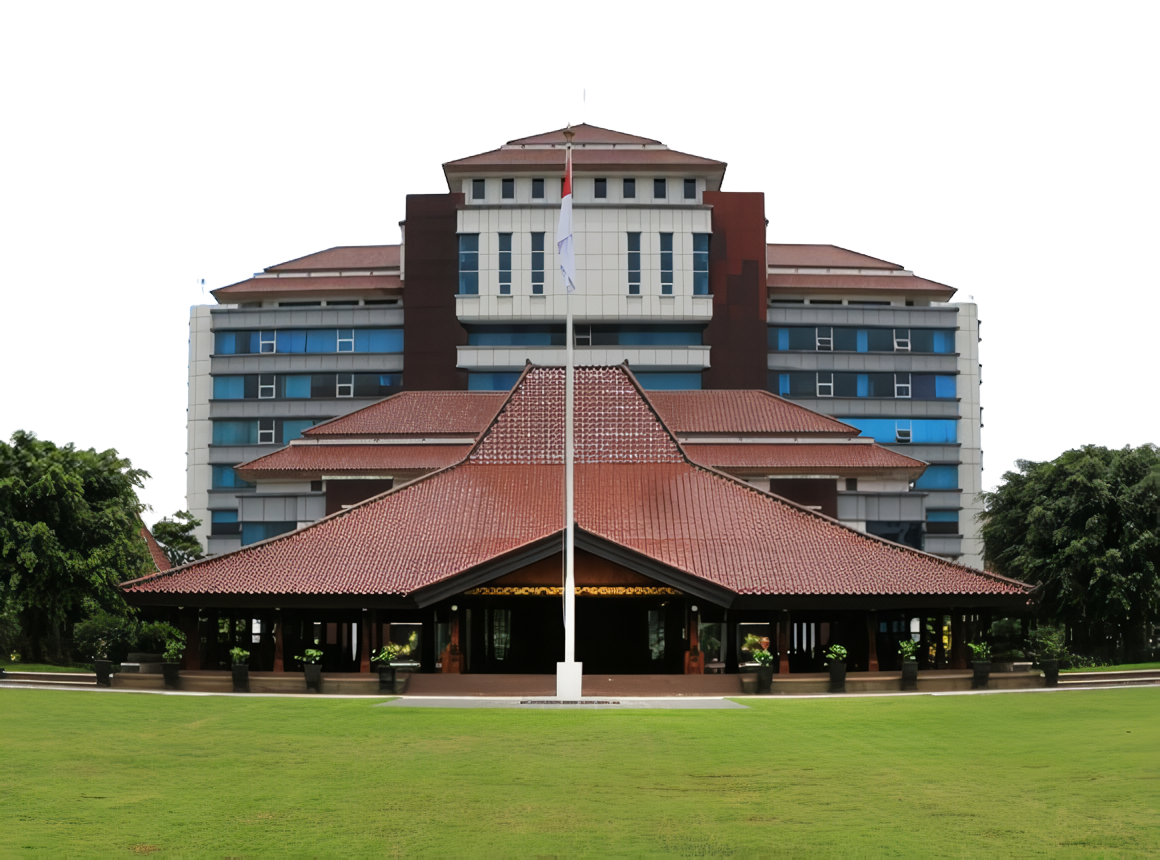
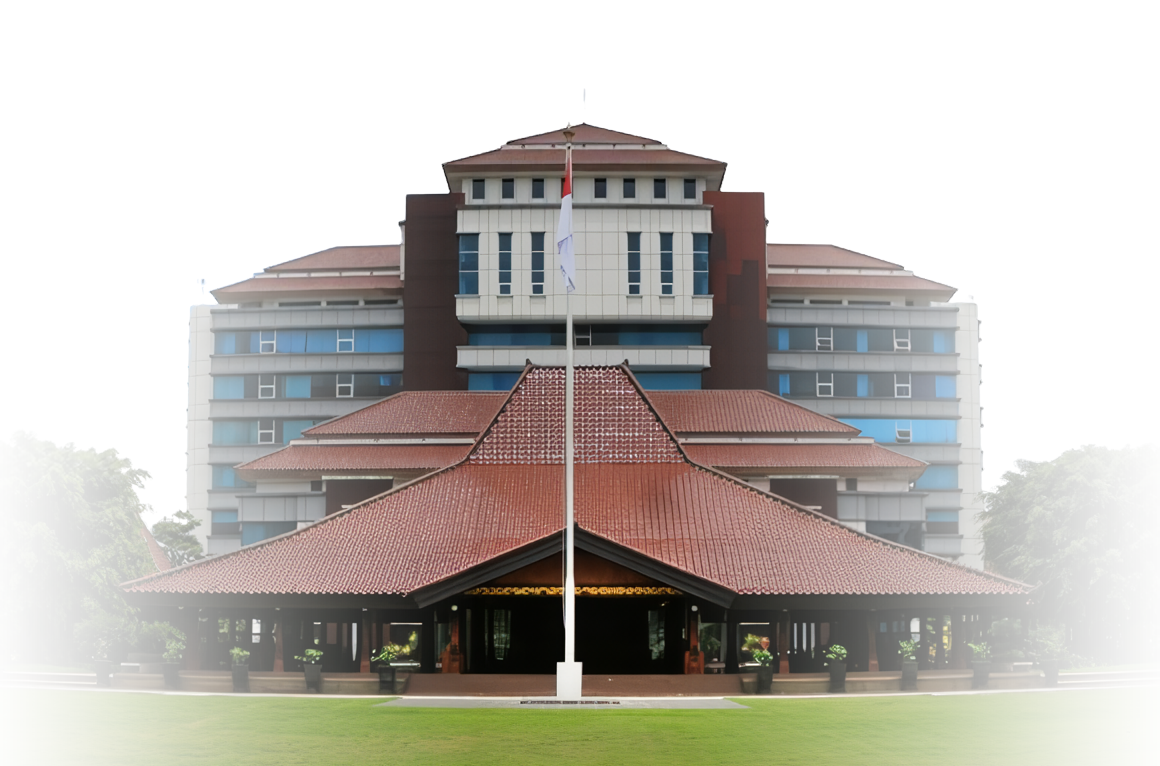
modified:   src/Page/Admin.jsx 	modified:   src/Page/Login.jsx 	modified:   src/assets/kankabmal.png 	modified:   src/components/Berita.jsx 	modified:   src/components/Domain.jsx 	modified:   src/components/Home.jsx 	modified:   src/components/Navbar.jsx 	modified:   src/components/TabelBerita.jsx 	

diff --git a/src/components/TabelDomain.jsx b/src/components/TabelDomain.jsx
@@ -54,6 +54,9 @@ const TabelDomain = (prop) => {
         }
       });
   };
+  const deleteHandler =(ID)=>{
+    axios.delete(`${urlAPI}${prop.keterangan}/delete/${ID}`.toLocaleLowerCase())
+  }
 
   const handleSubmitCreate = (e) => {
     e.preventDefault();
@@ -138,7 +141,7 @@ const TabelDomain = (prop) => {
                   </button>
 
                   {/* Ini button delete */}
-                  <button className='btn btn-square bg-red-500 hover:bg-red-800' onClick={console.log(map)}> 
+                  <button className='btn btn-square bg-red-500 hover:bg-red-800' onClick={()=>{deleteHandler(domain.id); console.log(map)}}> 
                     <svg xmlns="http://www.w3.org/2000/svg" fill="none" viewBox="0 0 24 24" strokeWidth={1.5} stroke="white" className="w-6 h-6">
                       <path strokeLinecap="round" strokeLinejoin="round" d="m14.74 9-.346 9m-4.788 0L9.26 9m9.968-3.21c.342.052.682.107 1.022.166m-1.022-.165L18.16 19.673a2.25 2.25 0 0 1-2.244 2.077H8.084a2.25 2.25 0 0 1-2.244-2.077L4.772 5.79m14.456 0a48.108 48.108 0 0 0-3.478-.397m-12 .562c.34-.059.68-.114 1.022-.165m0 0a48.11 48.11 0 0 1 3.478-.397m7.5 0v-.916c0-1.18-.91-2.164-2.09-2.201a51.964 51.964 0 0 0-3.32 0c-1.18.037-2.09 1.022-2.09 2.201v.916m7.5 0a48.667 48.667 0 0 0-7.5 0" />
                     </svg>
@@ -186,7 +189,11 @@ const TabelDomain = (prop) => {
               </div>
               <div className="mb-4">
                 <label htmlFor="nilai" className="block text-gray-700 text-sm font-bold mb-2">Nilai Index:</label>
-                <textarea id="nilai" name='nilai' onSubmit={handleChange} onChange={handleChange} defaultValue={map.penjelasan} className="shadow appearance-none border rounded w-full py-2 px-3 text-gray-700 leading-tight focus:outline-none focus:shadow-outline" required></textarea>
+                <input type="text" id="nilai" name='nilai' onSubmit={handleChange} onChange={handleChange} defaultValue={map.penjelasan} className="shadow appearance-none border rounded w-full py-2 px-3 text-gray-700 leading-tight focus:outline-none focus:shadow-outline" required></input>
+              </div>
+              <div className="mb-4">
+                <label htmlFor="tahun" className="block text-gray-700 text-sm font-bold mb-2">Tahun:</label>
+                <input type="text" id="tanun" name='tahun' onSubmit={handleChange} onChange={handleChange} defaultValue={map.penjelasan} className="shadow appearance-none border rounded w-full py-2 px-3 text-gray-700 leading-tight focus:outline-none focus:shadow-outline" required></input>
               </div>
             </div>
             <div className=" px-4 py-3 sm:px-6 sm:flex sm:flex-row-reverse">
@@ -233,7 +240,7 @@ const TabelDomain = (prop) => {
               </div>
             </div>
             <div className="bg-gray-50 px-4 py-3 sm:px-6 sm:flex sm:flex-row-reverse">
-              <button type="submit" formMethod='dialog' className="btn bg-primary text-base font-medium text-white hover:bg-red-700 focus:outline-none focus:ring-2 focus:ring-offset-2 sm:ml-3 sm:w-auto sm:text-sm">
+              <button type="submit" className="btn bg-primary text-base font-medium text-white hover:bg-red-700 focus:outline-none focus:ring-2 focus:ring-offset-2 sm:ml-3 sm:w-auto sm:text-sm">
                 Update
               </button>
             </div>

diff --git a/src/Page/Login.jsx b/src/Page/Login.jsx
@@ -1,13 +1,51 @@
 import React from 'react'
+import Admin from './Admin'
+import PropTypes from 'prop-types'
 import { SPBELogin, kantorlogin } from '../assets'
+import { urlAPI } from '../constants'
+import axios from 'axios'
 
-const Login = () => {
+const Login = ({setToken}) => {
+  const [data, setData]=React.useState({})
+  const handleChange = (e) => {
+    const value = e.target.value;
+    setData({
+      ...data,
+      [e.target.name]: value
+    });
+  };
+
+
+  const handlerlogin= async ()=>{
+    const userData = {
+      email : data.email,
+      password : data. password,
+    };
+    return await axios.post(`${urlAPI}/xwyz/login`, userData)
+    .then((response) => {
+      setToken(response);
+      return <Admin/>
+    })
+    .catch((error) => {
+      if (error.response) {
+        console.log(error.response);
+        console.log("server responded");
+      } else if (error.request) {
+        console.log("network error");
+      } else {
+        console.log(error);
+      }
+    });
+  }
+
+
+
   return (
-    <div className='flex flex-row justify-between items-center'>
+    <div className='flex flex-row items-center'>
       <div className={`hidden sm:flex`}>
         <img src={kantorlogin} className='size-auto'/>
       </div>
-      <div className='flex flex-col content-center mx-4 sm:mr-10 py-16'>
+      <div className='flex flex-col p-10 content-center mx-4 sm:mr-10 py-16'>
         <img src={SPBELogin} className='max-w-3/6'/>
         <p className='text-3xl font-bold'>
             Selamat Datang di Panel SPBE
@@ -15,18 +53,18 @@ const Login = () => {
         <p>
             Silahkan Masuk Menggunakan Akun Anda
         </p>
-        <form>
+        <form onSubmit={handlerlogin}>
         <div className="form-control">
           <label className="label">
             <span className="label-text text-lg font-bold">Email</span>
           </label>
-          <input type="email" placeholder="Masukan Email Anda" className="input input-md input-bordered" required />
+          <input type="email" name='email' placeholder="Masukan Email Anda" onChange={handleChange} className="input input-md input-bordered" required />
         </div>
         <div className="form-control">
           <label className="label">
             <span className="label-text text-lg font-bold">Password</span>
           </label>
-          <input type="password" placeholder="Masukan Password Anda" className="input input-md input-bordered" required />
+          <input type="password" name='password' placeholder="Masukan Password Anda" onChange={handleChange} className="input input-md input-bordered" required />
         </div>
         <div className="form-control mt-6">
           <button className="btn  btn-primary text-white font-bold text-lg">Login</button>
@@ -36,5 +74,9 @@ const Login = () => {
     </div>
   )
 }
+
+Login.propTypes = {
+  setToken: PropTypes.func.isRequired
+} 
 
 export default Login

diff --git a/src/components/TabelBerita.jsx b/src/components/TabelBerita.jsx
@@ -14,6 +14,7 @@ const TabelBerita = (props) => {
   const [dataNews, setDataNews] = React.useState({})
   const [data, setData] = React.useState({});
   const [files, setFiles] = React.useState([]);
+  const [id, setId] = React.useState();
 
   const handleChange = (e) => {
     const value = e.target.value;
@@ -105,8 +106,12 @@ const TabelBerita = (props) => {
       </table>
       <dialog id="my_modal_4" className="modal">
         <div className="modal-box w-11/12 max-w-5xl">
+          <form method="dialog">
+            {/* if there is a button in form, it will close the modal */}
+            <button className="btn btn-sm btn-circle btn-ghost absolute text-xl right-6 top-6">✕</button>
+          </form>
           <h3 className="font-bold text-lg">Tambah Berita</h3>
-          <form onSubmit={handlerFormSubmit} encType="multipart/form-data" method='dialog'>
+          <form onSubmit={()=>{handlerFormSubmit(); document.getElementById("formAdd").reset();}} encType="multipart/form-data" id='formAdd' method='dialog'>
             <div className="label">
               <span className="label-text font-bold">Judul Berita</span>
             </div>
@@ -125,7 +130,7 @@ const TabelBerita = (props) => {
               server={{
                 url: urlAPI,
                 process: "abcd/create/",
-
+                onload : (response) => {setId(response.id)}
               }}
             ></FilePond>
             <div className="label">
@@ -133,8 +138,7 @@ const TabelBerita = (props) => {
             </div>
             <textarea onChange={handleChange} name="" className="textarea textarea-bordered w-full mb-3" placeholder="Isi Berita"></textarea>
             <div className="modal-action flex-row">
-              <button className='btn bg-emerald-400 hover:bg-emerald-700 text-white'>Save</button>
-              <button formMethod='dialog' className="btn bg-primary hover:bg-red-700 text-white">Close</button>
+              <button type='submit' className='btn bg-emerald-400 hover:bg-emerald-700 text-white'>Save</button>
             </div>
           </form>
         </div>

diff --git a/src/Page/Admin.jsx b/src/Page/Admin.jsx
@@ -1,29 +1,15 @@
 import React from "react";
-import { logokab } from "../assets";
-import {
-  Card,
-  Typography,
-  List,
-  ListItem,
-  ListItemPrefix,
-  Accordion,
-  AccordionHeader,
-  AccordionBody,
-} from "@material-tailwind/react";
+import { Link } from "react-router-dom";
+import { logoBaru } from "../assets";
+import {Card,Typography,List,ListItem,ListItemPrefix,Accordion,AccordionHeader,AccordionBody,} from "@material-tailwind/react";
 import { ChevronRightIcon, ChevronDownIcon } from "@heroicons/react/24/outline";
-import {
-  kebijakanDummy,
-  manajemenDummy,
-  layananDummy,
-  kelolaDummy,
-  newsDummy,
-  galleryPhoto,
-} from "../constants";
+import {kebijakanDummy,manajemenDummy,layananDummy,kelolaDummy,newsDummy,galleryPhoto,} from "../constants";
 import { TabelGaleri, TabelBerita, TabelDomain, NilaiIndikator, TabelLayanan } from "../components";
 
 const Admin = () => {
   const [open, setOpen] = React.useState(0);
   const [component, setComponent] = React.useState(0);
+  const [token, setToken] = React.useState();
 
   const handleOpen = (value) => {
     setOpen(open === value ? 0 : value);
@@ -33,7 +19,9 @@ const Admin = () => {
     <div>
       <div className="px-10 shadow-lg">
         <nav className="w-full flex py-3 justify-between items-center navbar ">
-          <img src={logokab} alt="logospbe" className="w-24 sm:w-auto" />{" "}
+          <Link to='/'>
+            <img src={logoBaru} alt="logospbe" className=" max-h-14 sm:w-auto hover:cursor-pointer" />
+          </Link>
           {/* Adjusted logo size */}
         </nav>
       </div>

diff --git a/src/components/UpdateBerita.jsx b/src/components/UpdateBerita.jsx
@@ -1,8 +1,9 @@
 import React from 'react'
+import { urlAPI } from '../constants'
 import { FilePond } from 'react-filepond'
 
 const UpdateBerita = (prop) => { 
-    
+  const [files, setFiles] = React.useState();
   return (
       <dialog id="my_modal_2" className="modal">
         <div className="modal-box w-11/12 max-w-5xl">
@@ -16,9 +17,17 @@ const UpdateBerita = (prop) => {
               <span className="label-text font-bold">Gambar Sampul</span>
             </div>
             <FilePond
+              files={files}
+              onupdatefiles={setFiles}
               className='mb-5'
               allowFileTypeValidation={true}
               acceptedFileTypes={['image/*']}
+              name='image'
+              value=""
+              server={{
+                url: urlAPI,
+                process: `abcd//update/${prop.data.id}`
+              }}
             ></FilePond>
             <div className="label">
               <span className="label-text font-bold">Deskripsi</span>

diff --git a/src/components/TabelLayanan.jsx b/src/components/TabelLayanan.jsx
@@ -83,8 +83,8 @@ const TabelLayanan = (props) => {
               <td className='border-solid border-2'>{index+1}</td>
               <td className='border-solid border-2'>{berita.nama}</td>
               <td className='border-solid border-2'>{berita.updated_at.slice(0, 10)}</td>
-              <td className='border-solid border-2'>
-                <img src={berita.logo} alt={berita.nama} className="w-32 h-auto" />
+              <td className='border-solid border-2 flex justify-center'>
+                <img src={berita.logo} alt={berita.nama} className="w-auto max-h-20" />
               </td>
               <td className='border-solid border-2 max-w-96'>
                 {/* iki sing deskripsi kok gak ke get */}

diff --git a/src/components/Navbar.jsx b/src/components/Navbar.jsx
@@ -4,7 +4,7 @@ import { navLinks } from '../constants';
 
 const Navbar = () => (
   <nav className="w-full flex py-3 justify-between items-center navbar">
-    <img src={logoBaru} alt="logospbe" className="w-24 sm:w-auto max-h-14" /> {/* Adjusted logo size */}
+    <img src={logoBaru} alt="logospbe" className="sm:w-auto max-h-14" /> {/* Adjusted logo size */}
     <ul className="list-none sm:flex hidden justify-end items-center flex-1">
       {navLinks.map((nav, index) => (
         <li key={nav.id} className={`font-poppins font-bold cursor-pointer text-sm sm:text-lg ${index === navLinks.length - 1 ? 'mr-0' : 'mr-10'}`}> {/* Adjusted font size */}

diff --git a/src/components/Berita.jsx b/src/components/Berita.jsx
@@ -16,7 +16,7 @@ const Berita = () => (
       {newsDummy.data.map((news, index) => (
         <div key={index} className="card card-compact w-full sm:w-1/2 md:w-1/3 lg:w-1/4 bg-base-100 mt-2 md:mt-0 md:mr-4 lg:mr-0"> {/* Adjusted card width and added margin-right */}
           <figure>
-            <img src={news.image} alt="Shoes" className="w-full" /> {/* Adjusted image width */}
+            <img src={news.image} alt="Shoes" className="max-h-52" /> {/* Adjusted image width */}
           </figure>
           <div className="card-body">
             <h2 className="card-title text-base md:text-lg">{news.title}</h2> {/* Adjusted font size */}

diff --git a/src/components/Home.jsx b/src/components/Home.jsx
@@ -1,5 +1,5 @@
 import React from 'react'
-import { Pendopo } from '../assets'
+import { kankabmal } from '../assets'
 
 const Home = () => (
     <div className='shrink flex justify-between items-center px-1 '> 
@@ -13,7 +13,7 @@ const Home = () => (
         </div>
       </div>
       <div className='w-2/3'>
-        <img src={Pendopo} alt="logospbe" className="divide-opacity-10 "/>
+        <img src={kankabmal} alt="logospbe" className="divide-opacity-10 "/>
       </div>
     </div>
   )

diff --git a/src/components/Domain.jsx b/src/components/Domain.jsx
@@ -255,7 +255,7 @@ const Domain = () => {
         </div>
 
       </div>
-      <button className='btn' onClick={console.log(manajemenData.data.next_page_url)}>coba</button>
+      {/* <button className='btn' onClick={console.log(manajemenData.data.next_page_url)}>coba</button> */}
     </div>
   );
 }
